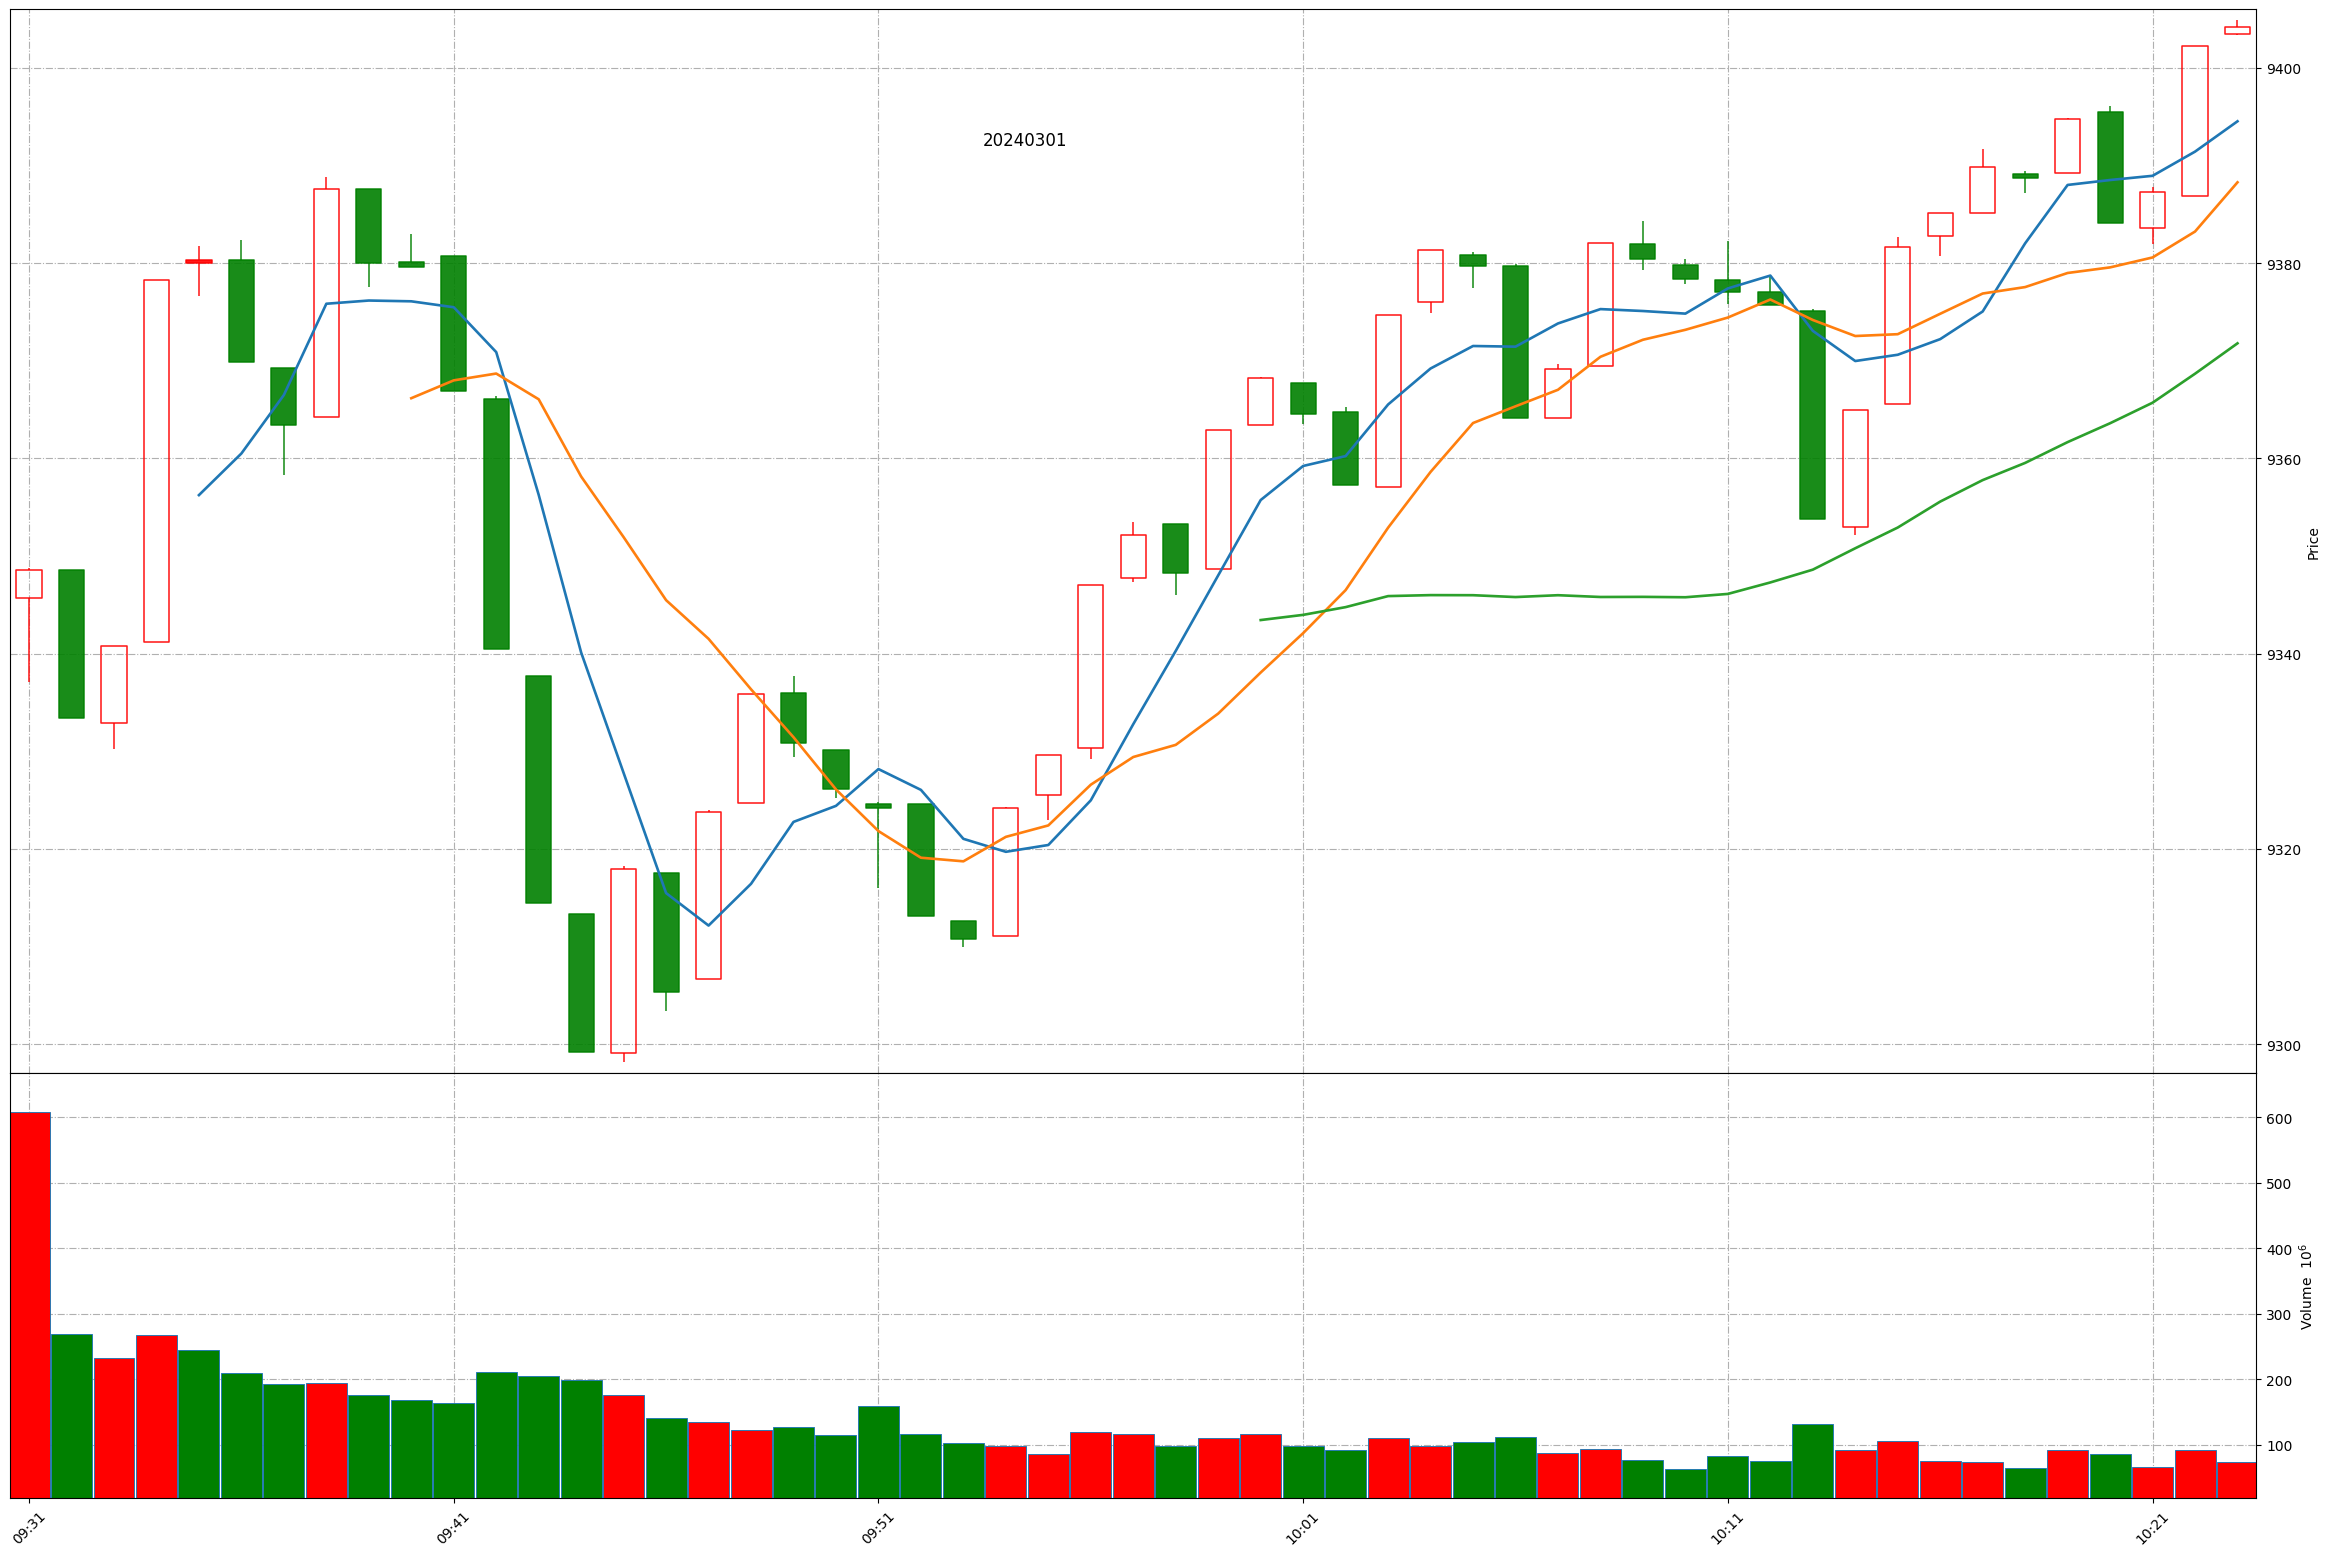
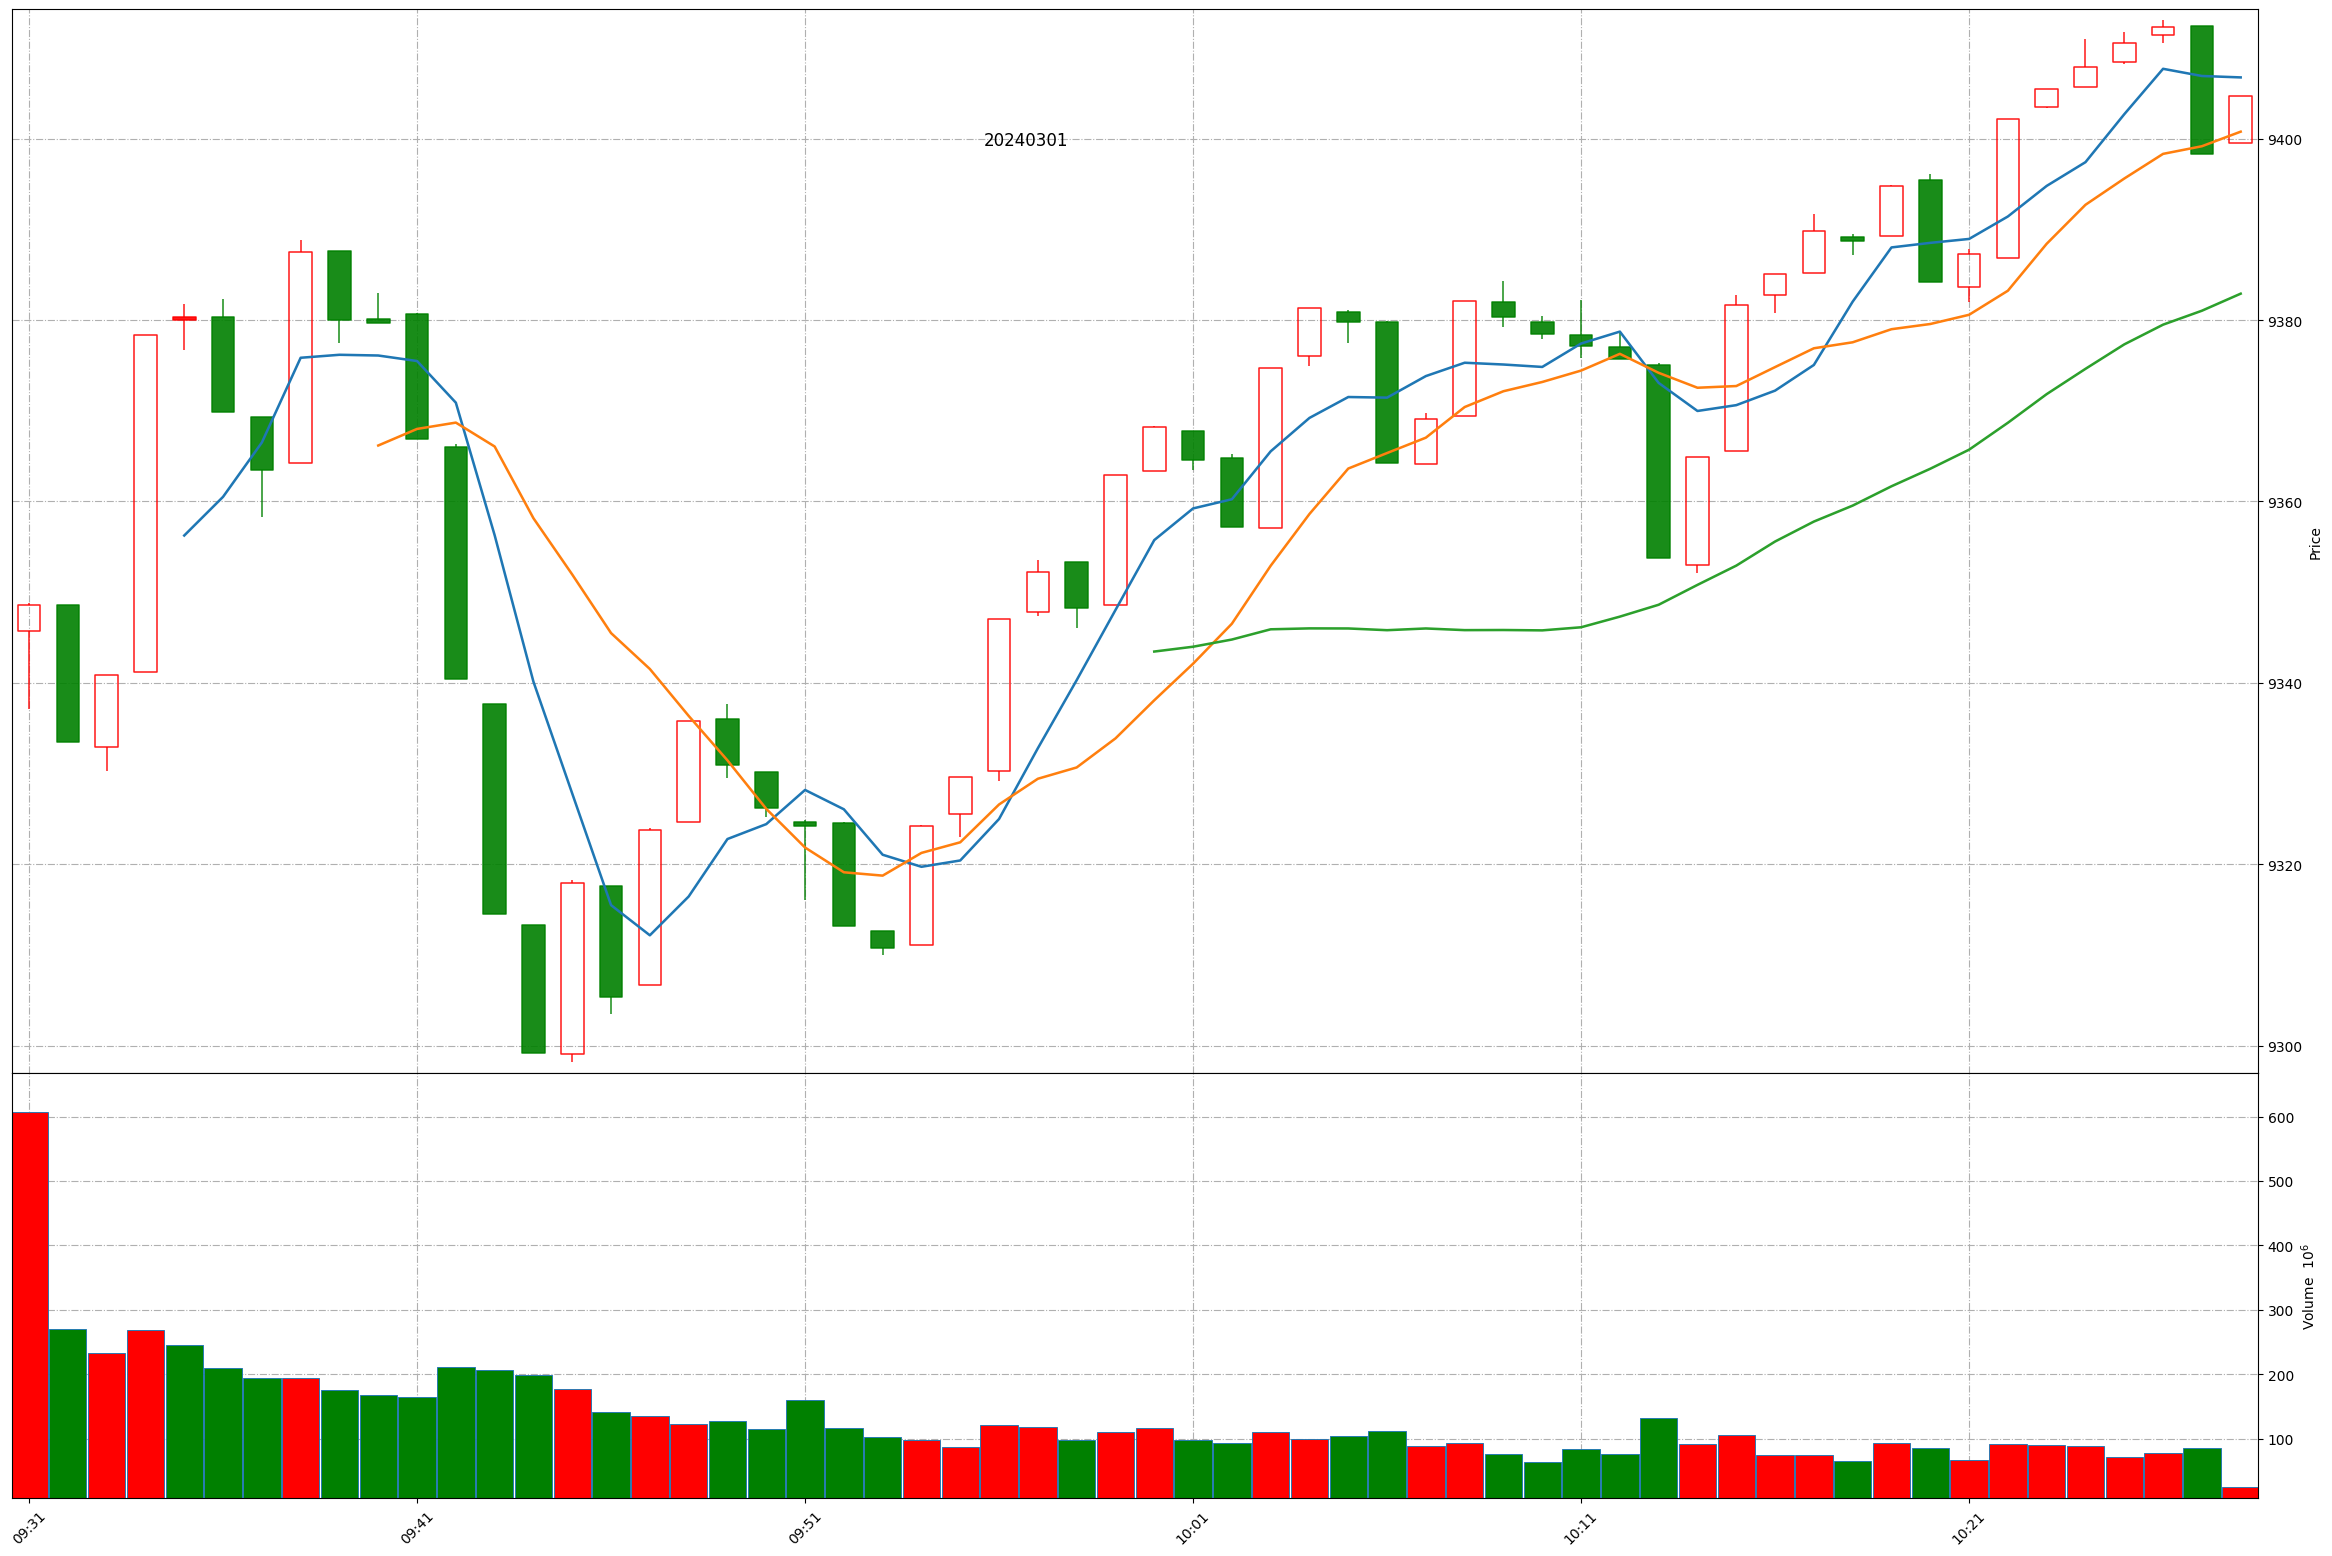
Github action update at 2024-03-01 10:27:39.

diff --git a/README.md b/README.md
@@ -1,11 +1,11 @@
 
 # Daily-A-share-market-quotes 每日 A 股指数（5min 更新）- 20240301
 
-### 上证指数 20240301 10:23
+### 上证指数 20240301 10:27
 ![](./fig/2024/3/20240301-sh000001.png)
 
-### 深证成指 20240301 10:23
+### 深证成指 20240301 10:27
 ![](./fig/2024/3/20240301-sz399001.png)
 
-### 北证50 20240301 10:23
+### 北证50 20240301 10:27
 ![](./fig/2024/3/20240301-bj899050.png)
